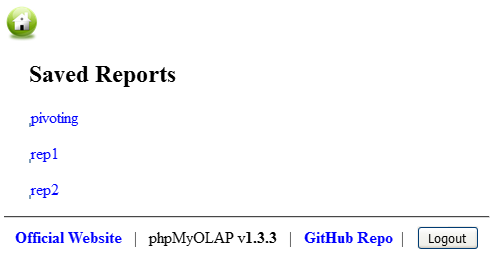
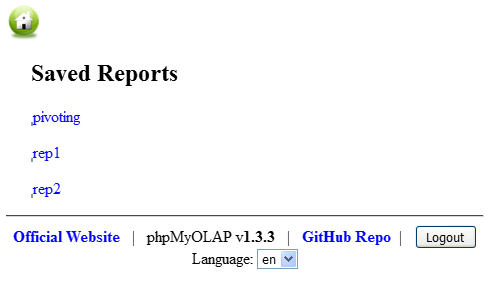
Multi Language enabled. Partly translated. Screenshots updated

diff --git a/phpMyOLAP/olap/views/views.php b/phpMyOLAP/olap/views/views.php
@@ -7,10 +7,10 @@ $level_ser=implode("-",$levels);
 print "<table border=0>";
   print "<tr valign=top>";
     print "<td>";
-    print "<a href='../home.php' title='Home'><img src='$img_home' width=35px height=35px></a>";
+    print "<a href='../home.php' title='$message[home]'><img src='$img_home' width=35px height=35px></a>";
     print "</td>";
     print "<td>";
-      print "<a style='width:120px' href='#' title='Save' onclick='save(\"$cubename_sel\",\"$level_ser\")'><img src='$img_save' width=32px height=32px></a>";
+      print "<a style='width:120px' href='#' title='$message[save]' onclick='save(\"$cubename_sel\",\"$level_ser\")'><img src='$img_save' width=32px height=32px></a>";
     print "</td>";
     print "<td valign=top>";
       print "<form name='form_export_pdf' action='../olap/export_pdf.php' method=post target='_blank'>";
@@ -60,14 +60,14 @@ print "<table align=center>";
       print "<input type=hidden name='operazione' value='back'>";
       print "<input type=hidden name='cubename' value='$cubename_sel'>";
       print "<input type=hidden name='levels' value='" . serialize($levels) . "'>";
-      print "<a style='width:120px' class='button' href='#' onclick='invia(\"form_report\")'>Modify Report</a>";
+      print "<a style='width:120px' class='button' href='#' onclick='invia(\"form_report\")'>$message[modify]</a>";
       print "</form>";
     print "</td>";
     print "<td valign=top>";
-      print "<a style='width:120px' class='button' href='#' onclick=\"document.getElementById('divSD').style.visibility='visible';\">Slice-and-Dice</a>";
+      print "<a style='width:120px' class='button' href='#' onclick=\"document.getElementById('divSD').style.visibility='visible';\">$message[slice]</a>";
     print "</td>";
     print "<td valign=top>";
-      print "<a style='width:120px' class='button' href='#' onclick=\"document.getElementById('divDrillAcross').style.visibility='visible';\">Drill-across</a>";
+      print "<a style='width:120px' class='button' href='#' onclick=\"document.getElementById('divDrillAcross').style.visibility='visible';\">$message[drill]</a>";
     print "</td>";
     print "<td valign=top>";
       print "<a style='width:120px' class='button' href='#' onclick=\"document.getElementById('divPivoting').style.visibility='visible';\">Pivoting</a>";

diff --git a/phpMyOLAP/functions.php b/phpMyOLAP/functions.php
@@ -1,35 +1,27 @@
 <?php
 
-function exec_query($query)
-{
+function exec_query($query) {
 //***************************************************Connection to DB
-global $db_host, $db_user, $db_password, $db_name;
-$db = mysql_connect($db_host, $db_user, $db_password);
-if ($db == FALSE) die ("Connection Error.<br>");
-mysql_select_db($db_name, $db) or die ("Error connecting to database.<br>");
+	global $db_host, $db_user, $db_password, $db_name;
+	$db = mysql_connect($db_host, $db_user, $db_password);
+	if ($db == FALSE) die ("Connection Error.<br>");
+	mysql_select_db($db_name, $db) or die ("Error connecting to database.<br>");
 
- 
-$result=mysql_query($query, $db);
-if(!$result)
-{
-print "QUERY: $query<br>"; 
-print mysql_error($db);
+	$result=mysql_query($query, $db);
+	if(!$result) {
+		print "QUERY: $query<br>"; 
+		print mysql_error($db);
+	}
+	mysql_close($db);
+	return $result;
 }
 
-mysql_close($db);
-
-return $result;
-}
-
-
-
-function printLegend($img_cube,$img_mea,$img_dim,$img_hier,$img_lev,$img_prop)
-{
-print "<fieldset>";
-print "<legend>Legend</legend><img src='$img_cube'> Cube <img src='$img_mea'> Measure <img src='$img_dim' width=24px height=24px>";
-print " Dimension <img src='$img_hier'> Hierarchy <img src='$img_lev'> Level <img src='$img_prop'> Properties";
-print " </fieldset>";
-
+function printLegend($img_cube,$img_mea,$img_dim,$img_hier,$img_lev,$img_prop) {
+	global $message;
+	print "<fieldset>";
+	print "<legend>$message[legend]</legend><img src='$img_cube'> $message[cube] <img src='$img_mea'> $message[measure] <img src='$img_dim' width=24px height=24px>";
+	print " $message[dimension] <img src='$img_hier'> $message[hier] <img src='$img_lev'> $message[lev] <img src='$img_prop'> $message[prop]";
+	print " </fieldset>";
 }
 
 function printHTMLHead($stylefile,$jsfile,$redirectpage='') {
@@ -41,7 +33,7 @@ function printHTMLHead($stylefile,$jsfile,$redirectpage='') {
 	}
 	print "<link rel='stylesheet' type='text/css' href='$stylefile' />";
 	print "<script type='text/javascript' src='$jsfile' language='javascript'></script>";
-	print "<title>phpMyOLAP: OLAP tool for MySQL databases</title>";
+	print "<title>phpMyOLAP: $message[desc]</title>";
 	print "</head>";
 }
 

diff --git a/phpMyOLAP/config.php b/phpMyOLAP/config.php
@@ -26,6 +26,8 @@ $script_pfx = $script_pfx['path'] . '/';
 
 if ($authentication) {
 	session_start();
+	if(isset($_POST["lang"])) $_SESSION["lang"] = $_POST["lang"];
+	if(isset($_SESSION["lang"])) $lang = $_SESSION["lang"];
 	if ( !(($script_name == $script_pfx.'index.php') || ($script_name == $script_pfx.'home.php')) ) {
 		if (!is_logged_in()) {
 			header("Location: $urlsito/$extra");
@@ -35,6 +37,7 @@ if ($authentication) {
 	if (is_logged_in() && isset($_GET['Logout']))
 		logout();
 } else {
+	if(isset($_POST["lang"])) $lang = $_POST["lang"];
 	if ($script_name == $script_pfx.'index.php') {
 		$extra = 'home.php';
 		header("Location: $urlsito/$extra");
@@ -42,6 +45,7 @@ if ($authentication) {
 	}
 }
 
+include("lang/$lang");
 include("images/images.php");
 
 function is_logged_in() {
@@ -53,6 +57,28 @@ function logout() {
 	if (isset($_SESSION['logged_in'])) unset($_SESSION['logged_in']);
 	header("Location: $urlsito/index.php");
 	exit; 
+}
+
+function langbox() {
+	global $lang, $message;
+	$out  = "<form name='langform' method='POST'>" . $message["lang"] . ': ';
+	$out .= " <select name='lang' onchange='if(this.value != \"$lang\") { this.form.submit(); }'>\n";
+	$mod_dir=dirname(__FILE__) . '/lang'; 
+	$hnd=opendir($mod_dir);
+	while($file=readdir($hnd)) {
+		if ($file != "." and $file != "..") {
+			if($file==$lang)
+				$selected="selected";
+			else
+				$selected="";
+  
+			$nf = strlen($file);
+			$file2=substr($file,0,$nf-4);
+			$out .= "<option $selected value=$file>$file2</option>";
+		}
+	}
+	$out .= "</select></form>";
+	echo $out;
 }
 
 function auth($user, $pass) {
@@ -76,7 +102,10 @@ function footer() {
 	print    "<a href='http://phpmyolap.altervista.org'><b>Official Website</b></a>";
 	print " &nbsp; | &nbsp; phpMyOLAP v<b>$phpmyolap_version</b>";
 	print " &nbsp; | &nbsp; <a href='https://github.com/apmuthu/phpMyOLAP'><b>GitHub Repo</b></a>";
-	if ($authentication && is_logged_in()) echo '&nbsp; | &nbsp; <a href="?Logout=1"><button>Logout</button></a>';
+	if ($authentication && is_logged_in()) {
+		print '&nbsp; | &nbsp; <a href="?Logout=1"><button>Logout</button></a><br>';
+		print langbox();
+	}
 	print "</center>";
 }
 ?>

diff --git a/phpMyOLAP/olap/utility.php b/phpMyOLAP/olap/utility.php
@@ -39,7 +39,7 @@ list($dim1,$hier1,$lev1,$prop1)=explode(".",$levels[$i]);
 
 if($dim1=="cube" and $hier1=="cube" and $lev1!="aggregate")
 {
-  //**************misure del cubo
+  //**************cube measures
   foreach($cube->Measure as $measure)
   {
   $measurename=$measure["name"];
@@ -48,7 +48,7 @@ if($dim1=="cube" and $hier1=="cube" and $lev1!="aggregate")
     $target_list.="$measurecol,";
   }
   
-  //misure calcolate
+  //calculated measures
   foreach($cube->CalculatedMember as $calc_measure)
   {
   $calc_measurename=$calc_measure["name"];
@@ -83,7 +83,7 @@ if($dim1=="cube" and $hier1=="cube" and $lev1=="aggregate")
   }
   
   
-  //misure calcolate
+  //calculated measure
   foreach($cube->CalculatedMember as $calc_measure)
   {
   $calc_measurename=$calc_measure["name"];
@@ -229,7 +229,7 @@ $where_final = $where_final . " $where[$i] AND ";
 }
 
 
-//***********************elimina join ridondanti
+//***********************eliminate redundant joins
 
 for($i=0;$i<$nj;$i++) 
 {
@@ -245,13 +245,13 @@ for($i=0;$i<$nj;$i++)
  $join_final.=" $join[$i]";
 }
 
-//***********************costruisci target list
+//***********************build target list
 $n=strlen($target_list);
 $target_list=substr($target_list,0,$n-1);
 //print $target_list; 
 
 
-//******************************costruisci group by
+//******************************build group by
 for($i=0;$i<$nl;$i++) 
 {
   for($j=0;$j<$nl;$j++) 
@@ -271,7 +271,7 @@ $n=strlen($group_final);
 $group_final=substr($group_final,0,$n-1);
 
 
-//***********************costruisci query finale
+//***********************build final query
 $n=strlen($where_final);
 $where_final=substr($where_final,0,$n-5);
 $n=strlen($where_final);
@@ -291,7 +291,7 @@ else
   $query="select distinct $target_list $mea from $cubetablename $join_final group by $group_final";
 }
 
-//***************************ORDINAMENTO
+//***************************Sort Order
 list($tab1,$col1)=explode(".",$colonna);
 $a=strrpos($join_final,$tab1);
 if($tab1!="" && $a!=false && $colonna!="" && $ordinamento!="")

diff --git a/phpMyOLAP/builder/report.php b/phpMyOLAP/builder/report.php
@@ -8,7 +8,7 @@ $operazione=$_POST['operazione'];
 
 
 printHTMLHead($stylefile,$jsfile);
-print "<table width=100%><tr><td valign=top><a href='../home.php' title='Home'><img src='$img_home' width=35px height=35px></a></td>";
+print "<table width=100%><tr><td valign=top><a href='../home.php' title='$message[home]'><img src='$img_home' width=35px height=35px></a></td>";
 print "<td>";
 printLegend($img_cube,$img_mea,$img_dim,$img_hier,$img_lev,$img_prop);
 print "</td></tr></table>";
@@ -30,11 +30,11 @@ print "<table cellspacing=5 cellpadding=5 width=100% border=0>";
     print "<td valign=top align=center>";
       //*************************************************REPORT **************************************************
       print "<table border=1 id='report'>";
-        print "<tr id='rep_header'>";
-        print "</tr>";
+      print "<tr id='rep_header'>";
+      print "</tr>";
       print "</table>";
       //print "<p><a style='width:120px' class='button' href='#' onclick='invia(\"form_report\")'>Create Report</a>";
-      print "<p><a style='width:120px' class='button' href='#' onClick='check_cube2()'>Create Report</a>";
+      print "<p><a style='width:120px' class='button' href='#' onClick='check_cube2()'>$message[create]</a>";
       print "<br>";
       //**********************************************Selected Data
       print "<select id='level_selected' size=5 name='level_selected[]' multiple style='visibility:hidden'>";

diff --git a/phpMyOLAP/lang/en.php b/phpMyOLAP/lang/en.php
@@ -2,18 +2,21 @@
 $message["home"]="Home";
 $message["desc"]="OLAP application for MySQL databases";
 
-$message["new"]="New report";
-$message["open"]="Open report";
+$message["new"]="New Report";
+$message["open"]="Open Report";
+$message["create"]="Create Report";
+$message["saved"]="Report saved";
+$message["modify"]="Modify Report";
 
 $message["cube"]="Cube";
 $message["dimension"]="Dimension";
 $message["measure"]="Measure";
 $message["hier"]="Hierarchy";
 $message["lev"]="Level";
-$message["prop"]="Property";
+$message["prop"]="Properties";
 $message["legend"]="Legend";
 
-$message["create_report"]="Show";
+$message["show"]="Show";
 $message["distinct"]="Distinct";
 $message["join"]="Inner join";
 $message["slice"]="Slice-and-dice";
@@ -21,13 +24,14 @@ $message["slice"]="Slice-and-dice";
 $message["cancel"]="Cancel";
 $message["ok"]="OK";
 $message["close"]="Close";
+$message["save"]="Save";
 
 $message["drill"]="Roll-up / Drill-down";
 $message["change_hier"]="Change hierarchy";
 $message["change_dim"]="Change dimension";
 $message["condition"]="Conditions";
 
-$message["report"]="Saved reports";
+$message["report"]="Saved Reports";
 $message["email"]="Send email";
 
 $message["email_ok"]="Email has been sent correctly";

diff --git a/phpMyOLAP/home.php b/phpMyOLAP/home.php
@@ -9,14 +9,14 @@ if ( $authentication ) $redirectpage = auth($_POST['username'], $_POST['password
 
 printHTMLHead($stylefile,$jsfile, $redirectpage);
 
-print "<center><h2>phpMyOLAP Reports</h2></center>";
+print "<center><h2>$message[desc]</h2></center>";
 print "<table align=center>";
   print "<tr>";
     print "<td align=center>";
-      print "<a href='builder/report.php'><img src='$img_new'><h3>Create Report</h3></a>";
+      print "<a href='builder/report.php'><img src='$img_new'><h3>$message[new]</h3></a>";
     print "</td>";
     print "<td align=center>";
-      print "<a href='builder/apri_report.php'><img src='$img_open'><h3>Open Report</h3></a>";
+      print "<a href='builder/apri_report.php'><img src='$img_open'><h3>$message[open]</h3></a>";
     print "</td>";
   print "</tr>";
 print "</table>";

diff --git a/phpMyOLAP/olap/send_email.php b/phpMyOLAP/olap/send_email.php
@@ -29,8 +29,8 @@ print "<input type=hidden id='hidden_colonna' value='$colonna'>";
 print "<input type=hidden id='hidden_slice' value='$slice'>";
 
 print "<p><table align=center>";
-print "<tr align=center><td><a style='width:80px' class='button' href='#' onclick='send_email2()'>OK</a></td>";
-print "<td><a style='width:80px' class='button' href='#' onclick=\"document.getElementById('DIVsend_email').style.visibility='hidden';\">Cancel</a></td></tr>";
+print "<tr align=center><td><a style='width:80px' class='button' href='#' onclick='send_email2()'>$message[ok]</a></td>";
+print "<td><a style='width:80px' class='button' href='#' onclick=\"document.getElementById('DIVsend_email').style.visibility='hidden';\">$message[cancel]</a></td></tr>";
 print "</table>";
 
 print "</form>";

diff --git a/phpMyOLAP/olap/send_email2.php b/phpMyOLAP/olap/send_email2.php
@@ -25,10 +25,10 @@ $a=mail($email,$oggetto,$messaggio,$mittente);
 
 print "<div style='margin-top:20px;margin-left:20px'>";
 print "<center>";
-if($a==true)
-print "Email sent successfully";
+if($a)
+	print "$message[email_ok]";
 else
-print "Email not sent";
+	print "$message[email_error]";
 print "<br><br><br><a style='width:80px' class='button' href='#' onclick=\"document.getElementById('DIVsend_email').style.visibility='hidden';\">Close</a>";
 print "</center>";
 print "</div>";

diff --git a/phpMyOLAP/builder/apri_report.php b/phpMyOLAP/builder/apri_report.php
@@ -5,9 +5,9 @@ include("../functions.php");
 
 printHTMLHead($stylefile,$jsfile);
 
-print "<a href='../home.php' title='Home'><img src='$img_home' width=35px height=35px></a>";
+print "<a href='../home.php' title='$message[home]'><img src='$img_home' width=35px height=35px></a>";
 print "<div style='margin-left:25px'>";
-print "<h2>Saved Reports</h2>";
+print "<h2>$message[report]</h2>";
 print "</div>";
 
 $hnd=opendir("../saved/");
